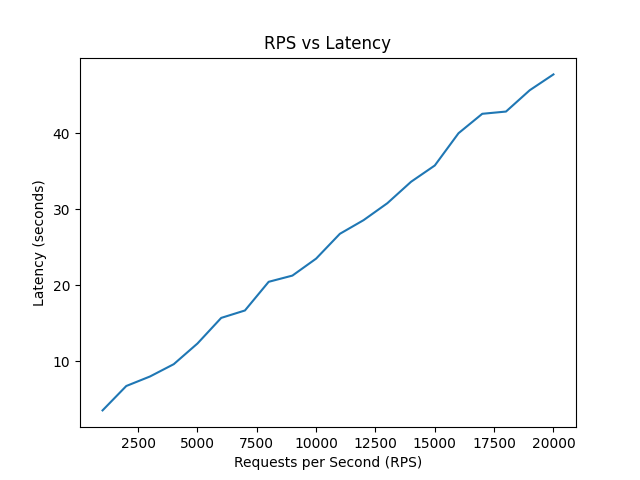
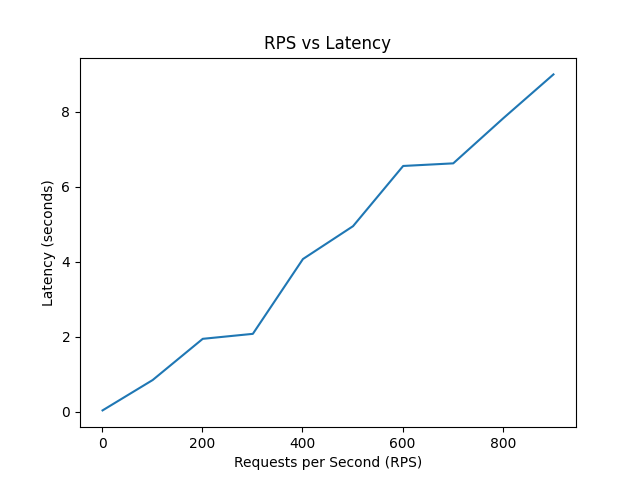
updated performance testing

diff --git a/performance/inject_requests.py b/performance/inject_requests.py
@@ -1,83 +1,31 @@
-from queue import Queue
-from threading import Thread
-import matplotlib.pyplot as plt
+import concurrent.futures
 import requests
 import time
+import matplotlib.pyplot as plt
+
+def func(url):
+    resp = requests.get(url)
+    return resp
+
+x = []
+y = []
+
+for i in range(1, 1001, 100):
+    x.append(i)
+    urls = ['http://localhost:5000/all'] * i
+    start_time = time.time()
+    with concurrent.futures.ThreadPoolExecutor(max_workers=i) as pool:
+        responses = list(pool.map(func, urls))
+        
+    elapsed_time = time.time() - start_time
+    y.append(elapsed_time)
+
+    print(i, elapsed_time)
 
 
-frontend_url = 'http://localhost:3000'
-backend_url = 'http://localhost:5000'
-
-def basic_get(url):
-    url_split = url.split('/')
-    index = url_split[-1]
-    endpoint = '/'.join(url_split[:-1])
-    result = session.get(endpoint)
-
-    results[index] = result
-
-# Worker class that serves individual threads
-class Worker(Thread):
-    def __init__(self, tasks):
-        super().__init__()
-        self.tasks = tasks
-        self.daemon = True
-        self.start()
-    
-    def run(self):
-        while True:
-            func, args, kargs = self.tasks.get()
-            try:
-                func(*args, **kargs)
-            except Exception as e:
-                print(e)
-            finally:
-                self.tasks.task_done()
-
-# ThreadPool class that has the threads executing tasks from a queue
-class ThreadPool():
-    def __init__(self, num_threads):
-        self.tasks = Queue(num_threads)
-        for i in range(num_threads):
-            Worker(self.tasks)
-    
-    def add_task(self, func, *args, **kargs):
-        self.tasks.put((func, args, kargs))
-    
-    def map(self, func, args_list):
-        for args in args_list:
-            self.add_task(func, args)
-    
-    def wait_completion(self):
-        self.tasks.join()
-
-
-if __name__ == '__main__':
-    # RPS
-    x = []
-
-    # Latency
-    y = []
-
-    for i in range(1000, 20001, 1000):
-        urls = [f'{frontend_url}/{j}' for j in range(i)]
-        pool = ThreadPool(40)
-        results = {}
-        session = requests.session()
-
-        start_time = time.time()
-        pool.map(basic_get, urls)
-        pool.wait_completion()
-        total_time = time.time() - start_time
-
-        x.append(i)
-        y.append(total_time)
-
-        print(i, total_time)
-
-    # Plot Results
-    plt.plot(x, y)
-    plt.title('RPS vs Latency')
-    plt.xlabel('Requests per Second (RPS)')
-    plt.ylabel('Latency (seconds)')
-    plt.savefig('rps_latency.png')
+# Plot Results
+plt.plot(x, y)
+plt.title('RPS vs Latency')
+plt.xlabel('Requests per Second (RPS)')
+plt.ylabel('Latency (seconds)')
+plt.savefig('rps_latency.png')

diff --git a/performance/plot_results.py b/performance/plot_results.py
@@ -1,12 +1,11 @@
 import matplotlib.pyplot as plt
 
 # RPS
-x = [ i * 1000 for i in range(1,11) ]
+x = [ i * 1000 for i in range(1,6) ]
 
 # Latency
-y = [ 2.158446788787842, 4.6104209423065186, 6.605509996414185, 
-      8.915043115615845, 12.3398118019104, 14.473229885101318, 16.281068086624146,
-      18.49314594268799, 21.10184383392334, 22.744621992111206]
+y = [ 11.446669816970825, 21.463001012802124, 32.41301703453064, 
+      41.34387993812561, 51.120333194732666 ]
 
 plt.plot(x, y)
 plt.title('RPS vs Latency')
